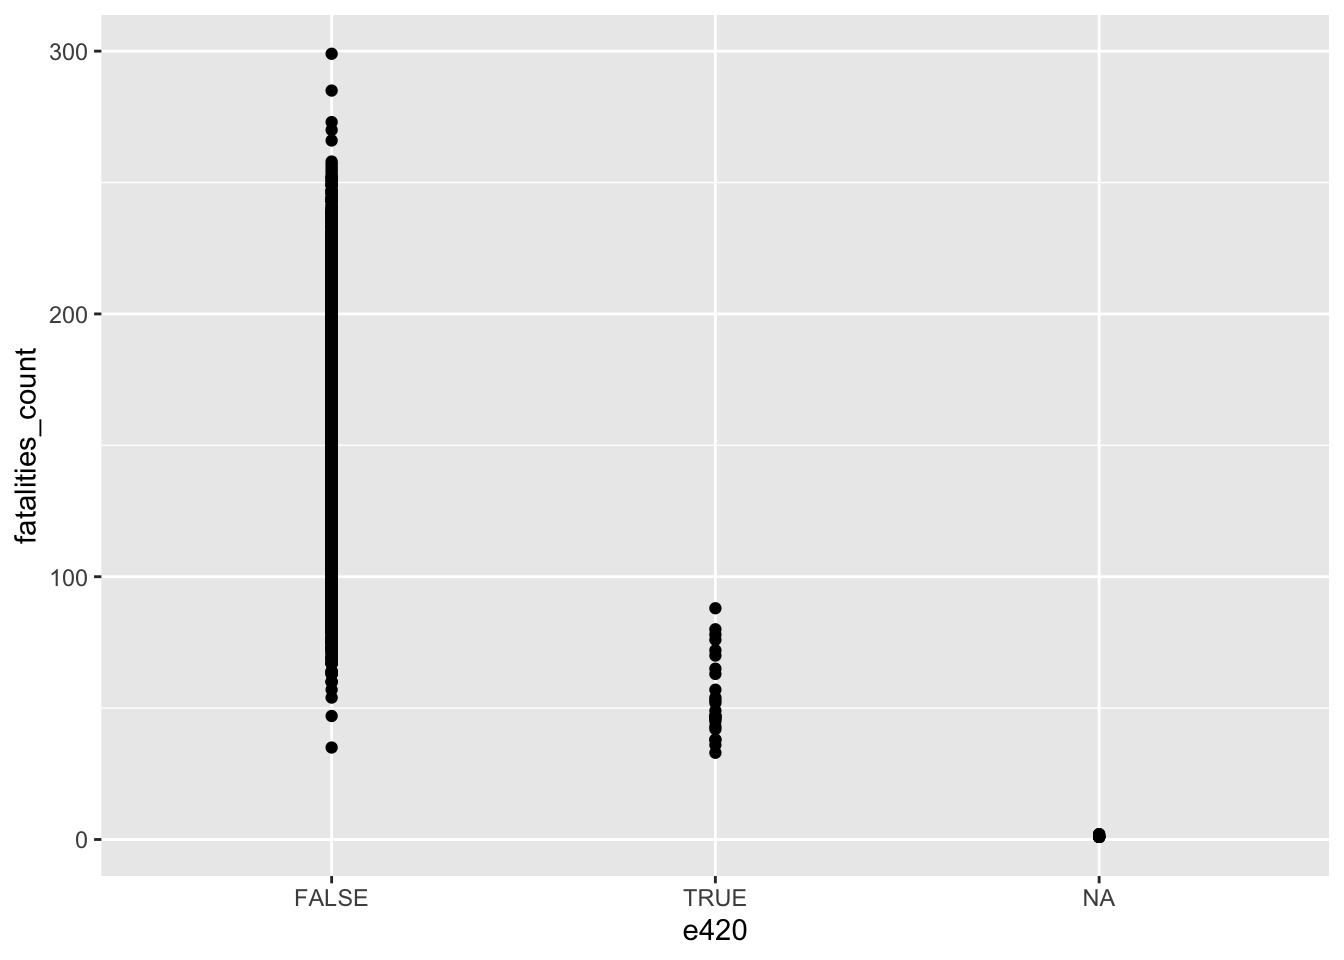
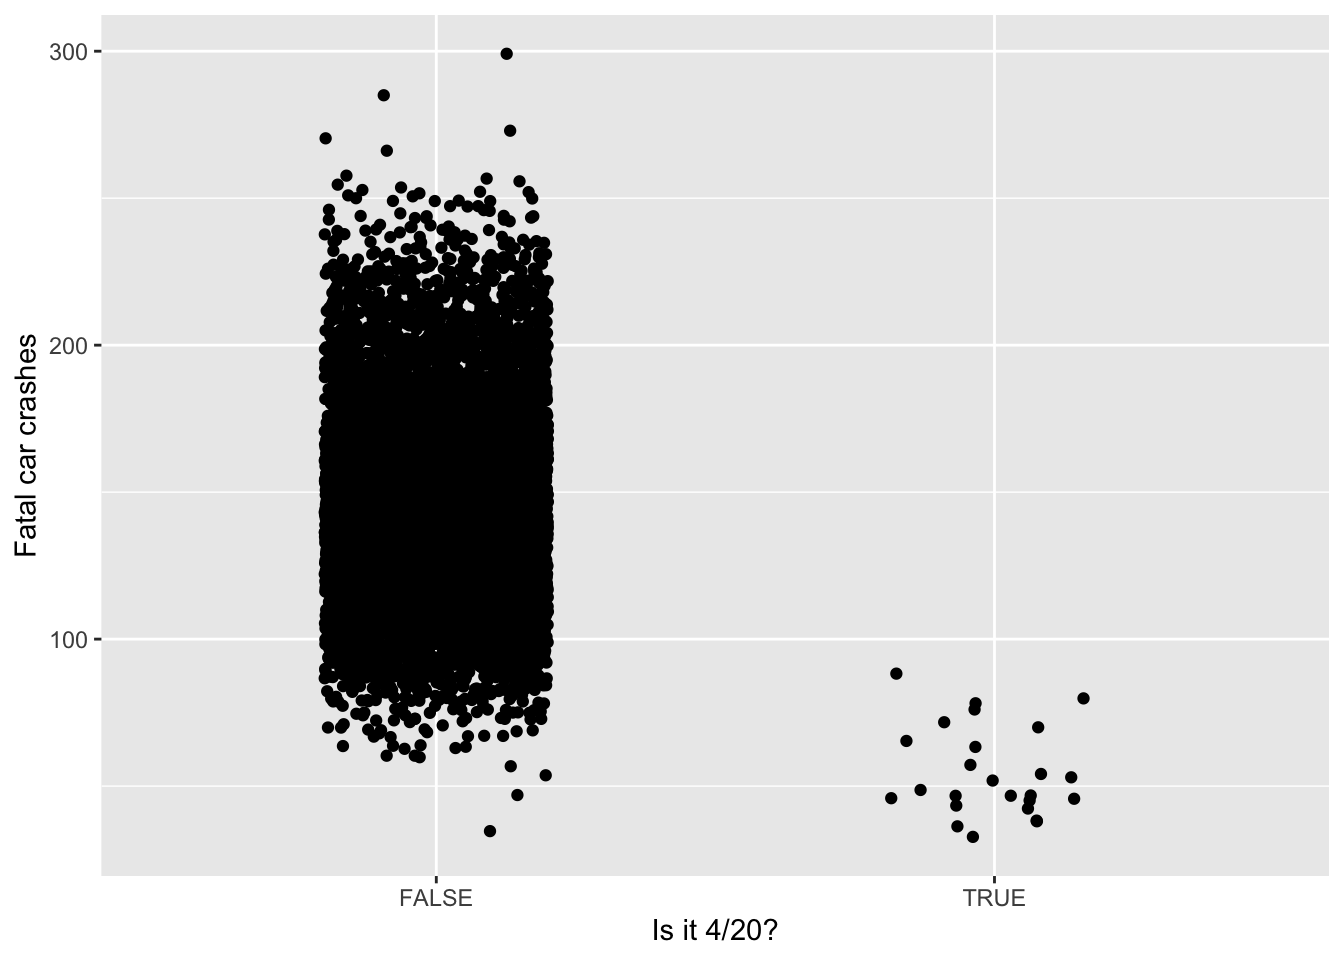
Tweaked aesthetics

diff --git a/docs/p05.html b/docs/p05.html
@@ -240,7 +240,7 @@ $(document).ready(function () {
         <span class="icon-bar"></span>
         <span class="icon-bar"></span>
       </button>
-      <a class="navbar-brand" href="index.html">Portfolio</a>
+      <a class="navbar-brand" href="index.html">Benjamin Egan's Projects</a>
     </div>
     <div id="navbar" class="navbar-collapse collapse">
       <ul class="nav navbar-nav">
@@ -248,7 +248,7 @@ $(document).ready(function () {
   <a href="index.html">Home</a>
 </li>
 <li>
-  <a href="about.html">About</a>
+  <a href="about.html">About Me</a>
 </li>
 <li>
   <a href="p01.html">Piece 1</a>
@@ -335,9 +335,9 @@ in the United States? <br/></li>
 </div>
 <div
 id="correlation-between-fatal-car-crashes-and-particular-days-of-the-year"
-class="section level3">
-<h3>1. Correlation between fatal car crashes and particular days of the
-year</h3>
+class="section level2">
+<h2>1. Correlation between fatal car crashes and particular days of the
+year</h2>
 <p>To see if there is a correlation, I’ll use the daily_accidents
 dataset. My first step is to break out the date into separate day,
 month, and year variables.</p>
@@ -520,9 +520,9 @@ decline. Very cool, and why there was a negative correlation.</p>
 </div>
 <div
 id="what-are-the-most-dangerous-days-of-the-year-for-fatal-car-crashes-in-the-united-states"
-class="section level3">
-<h3>2. What are the most dangerous days of the year for fatal car
-crashes in the United States?</h3>
+class="section level2">
+<h2>2. What are the most dangerous days of the year for fatal car
+crashes in the United States?</h2>
 <pre class="r"><code>daily_accidents %&gt;%
   arrange(desc(fatalities)) %&gt;%
 head()</code></pre>
@@ -572,21 +572,297 @@ should stop driving on the 3rd of the month…</p>
 </div>
 <div
 id="is-driving-on-april-20th-more-dangerous-than-other-days-of-the-year"
-class="section level3">
-<h3>3. Is driving on April 20th more dangerous than other days of the
-year?</h3>
+class="section level2">
+<h2>3. Is driving on April 20th more dangerous than other days of the
+year?</h2>
 <p>To answer this question, I’ll use the daily_accidents_420 dataset,
 which conveniently created an indicator of 4/20.</p>
-<pre class="r"><code>#daily_accidents_420test &lt;- daily_accidents_420 %&gt;%
-  #filter(!(e420 = &quot;NA&quot;))
+<pre class="r"><code>daily_accidents_420 &lt;- daily_accidents_420 %&gt;%
+  filter(!e420 == &quot;NA&quot;)
 
 daily_accidents_420 %&gt;%
   ggplot(aes(
     x = e420,
     y = fatalities_count
   ))+
-  geom_point()</code></pre>
-<p><img src="p05_files/figure-html/420%20fatalities-1.png" width="672" /></p>
+  geom_jitter(width = .2)+
+  labs(
+    x = &quot;Is it 4/20?&quot;,
+    y = &quot;Fatal car crashes&quot;
+  )</code></pre>
+<p><img src="p05_files/figure-html/420%20fatalities-1.png" width="672" />
+Based on the simple visual, it looks like there are actually less fatal
+car crashes on 4/20. To confirm this, I’m going to run an t-test to see
+if the groups are different.</p>
+<pre class="r"><code>t.test(fatalities_count ~ e420, data = daily_accidents_420)</code></pre>
+<pre><code>## 
+##  Welch Two Sample t-test
+## 
+## data:  fatalities_count by e420
+## t = 29.369, df = 24.632, p-value &lt; 2.2e-16
+## alternative hypothesis: true difference in means between group FALSE and group TRUE is not equal to 0
+## 95 percent confidence interval:
+##  83.98584 96.66370
+## sample estimates:
+## mean in group FALSE  mean in group TRUE 
+##            144.9248             54.6000</code></pre>
+<p>The p value is extremely significant, indicating that driving on 420
+causes less fatal car crashes.</p>
+</div>
+<div
+id="how-about-other-holidays-such-as-christmas-new-years-eve-or-4th-of-july"
+class="section level2">
+<h2>4. How about other holidays, such as Christmas, New years Eve, or
+4th of July?</h2>
+<p>I’ll start with Christmas, 12/25. I now need to create a Christmas
+Y/N variable.</p>
+<div id="christmas" class="section level3">
+<h3>Christmas</h3>
+<pre class="r"><code>Christmas &lt;- daily_accidents %&gt;%
+  mutate(Christmas = if_else(
+    day == 25 &amp; month == 12, &quot;Christmas&quot;, &quot;Not Christmas&quot;
+  ))
+
+Christmas %&gt;%
+  ggplot(aes(
+    x = Christmas,
+    y = fatalities
+  ))+
+  geom_jitter(width = .2)+
+  labs(
+    x = &quot;Is it Christmas?&quot;,
+    y = &quot;Fatal car crashes&quot;
+  )</code></pre>
+<p><img src="p05_files/figure-html/christmas%20fatalities-1.png" width="672" /></p>
+<p>Ok so here it’s less clear if there is a difference of fatalities for
+Christmas. As before, I’ll do a t-test to confirm this.</p>
+<pre class="r"><code>t.test(fatalities ~ Christmas, data = Christmas)</code></pre>
+<pre><code>## 
+##  Welch Two Sample t-test
+## 
+## data:  fatalities by Christmas
+## t = -6.8592, df = 24.25, p-value = 4.058e-07
+## alternative hypothesis: true difference in means between group Christmas and group Not Christmas is not equal to 0
+## 95 percent confidence interval:
+##  -43.24549 -23.24854
+## sample estimates:
+##     mean in group Christmas mean in group Not Christmas 
+##                     111.920                     145.167</code></pre>
+<p>As before, the p value is very significant, indicating there are less
+car crash fatalities on Christmas.</p>
+</div>
+<div id="new-years" class="section level3">
+<h3>New Years</h3>
+<p>I’m now going to do this by creating a function. I tried using the
+first chunk of code, and the second chunk I got from chat GPT.</p>
+<pre class="r"><code>day_oty &lt;- function(name, specific_month, specific_day) {
+name &lt;- daily_accidents %&gt;%
+  mutate(name = if_else(
+    day == specific_day &amp; month == specific_month, &quot;Yes&quot;, &quot;No&quot;
+  ))
+}</code></pre>
+<pre class="r"><code>day_oty &lt;- function(name, specific_month, specific_day) {
+  daily_accidents %&gt;%
+    mutate({{name}} := if_else(
+        day == specific_day &amp; month == specific_month, &quot;Yes&quot;, &quot;No&quot;
+      ))
+}</code></pre>
+<p>Great. Now we can see if there is a difference.</p>
+<pre class="r"><code>NYE &lt;- day_oty(NYE, 12, 31)
+
+NYE %&gt;%
+  ggplot(aes(
+    x = NYE,
+    y = fatalities
+  ))+
+  geom_jitter(width = .2)+
+  labs(
+    x = &quot;Is it New years eve?&quot;,
+    y = &quot;Fatal car crashes&quot;
+  )</code></pre>
+<p><img src="p05_files/figure-html/new%20years%20fatalities-1.png" width="672" /></p>
+<pre class="r"><code>t.test(fatalities ~ NYE, data = NYE)</code></pre>
+<pre><code>## 
+##  Welch Two Sample t-test
+## 
+## data:  fatalities by NYE
+## t = 1.2682, df = 24.219, p-value = 0.2168
+## alternative hypothesis: true difference in means between group No and group Yes is not equal to 0
+## 95 percent confidence interval:
+##  -4.119777 17.267764
+## sample estimates:
+##  mean in group No mean in group Yes 
+##           145.094           138.520</code></pre>
+<p>For new years eve, there actually isn’t a difference, indicating that
+New Years Eve might be the same as any normal day.</p>
+</div>
+<div id="th-of-july" class="section level3">
+<h3>4th of July</h3>
+<pre class="r"><code>july4 &lt;- day_oty(july4, 7, 4)
+
+july4 %&gt;%
+  ggplot(aes(
+    x = july4,
+    y = fatalities
+  ))+
+  geom_jitter(width = .2)+
+  labs(
+    x = &quot;Is it July 4th?&quot;,
+    y = &quot;Fatal car crashes&quot;
+  )</code></pre>
+<p><img src="p05_files/figure-html/4th%20of%20july%20fatalities-1.png" width="672" /></p>
+<pre class="r"><code>t.test(fatalities ~ july4, data = july4)</code></pre>
+<pre><code>## 
+##  Welch Two Sample t-test
+## 
+## data:  fatalities by july4
+## t = -6.3811, df = 24.249, p-value = 1.282e-06
+## alternative hypothesis: true difference in means between group No and group Yes is not equal to 0
+## 95 percent confidence interval:
+##  -41.03296 -20.98483
+## sample estimates:
+##  mean in group No mean in group Yes 
+##          144.9911          176.0000</code></pre>
+<p>We have a winner! It looks like there are actually more fatalities on
+July 4th than normal (p &lt;.001). Maybe stick to fireworks in the
+backyard.</p>
+</div>
+</div>
+<div id="bonus---so-what-about-holidays-that-vary-like-thanksgiving"
+class="section level2">
+<h2>Bonus - So what about holidays that vary, like Thanksgiving?</h2>
+<p>As I was trying to fit the function, chatGPT said I could fit the
+function to dynamic holidays like thanksgiving. Thanksgiving falls on
+the 4th thursday of every november. This means that november will be the
+same, but the day will change every year.</p>
+<pre class="r"><code>daily_accidents &lt;- daily_accidents %&gt;%
+    mutate(date = make_date(year, month, day))
+
+check_thanksgiving &lt;- function(df) {
+  
+  thanksgiving_flags &lt;- df %&gt;%
+    filter(month(date) == 11) %&gt;%
+    arrange(date) %&gt;%
+    group_by(year(date)) %&gt;%
+    mutate(
+      weekday = wday(date, label = TRUE),
+      thursday_count = cumsum(weekday == &quot;Thu&quot;),
+      is_thanksgiving = if_else(weekday == &quot;Thu&quot; &amp; thursday_count == 4, &quot;Yes&quot;, &quot;No&quot;)
+    ) %&gt;%
+    ungroup() %&gt;%
+    select(date, is_thanksgiving)
+
+  # Merge flags back into the main data
+  df %&gt;%
+    left_join(thanksgiving_flags, by = &quot;date&quot;) %&gt;%
+    mutate(is_thanksgiving = replace_na(is_thanksgiving, &quot;No&quot;))
+  
+}
+
+
+thanksgiving_accidents &lt;- check_thanksgiving(daily_accidents)
+
+head(thanksgiving_accidents)</code></pre>
+<pre><code>##         date year month day fatalities is_thanksgiving
+## 1 1992-01-01 1992     1   1        144              No
+## 2 1992-01-02 1992     1   2        111              No
+## 3 1992-01-07 1992     1   7         85              No
+## 4 1992-01-12 1992     1  12        127              No
+## 5 1992-01-03 1992     1   3        182              No
+## 6 1992-01-17 1992     1  17        130              No</code></pre>
+<p>What this has done is that it filtered the data to just be November
+months and days, and arranged based on the year. From there, it created
+a weekday variable and a variable that counted the number of Thursdays
+in the month. It then created a final “is thanksgiving” variable that
+was based on it being the 4th Thursday. It took this variable and merged
+it with the original daily_accidents dataset.</p>
+<pre class="r"><code>thanksgiving_accidents %&gt;%
+  ggplot(aes(
+    x = is_thanksgiving,
+    y = fatalities
+  ))+
+  geom_jitter(width = .2)+
+  labs(
+    x = &quot;Is it Thanksgiving?&quot;,
+    y = &quot;Fatal car crashes&quot;
+  )</code></pre>
+<p><img src="p05_files/figure-html/thanksgiving%20difference-1.png" width="672" /></p>
+<pre class="r"><code>t.test(fatalities ~ is_thanksgiving, data = thanksgiving_accidents)</code></pre>
+<pre><code>## 
+##  Welch Two Sample t-test
+## 
+## data:  fatalities by is_thanksgiving
+## t = 0.94434, df = 24.223, p-value = 0.3543
+## alternative hypothesis: true difference in means between group No and group Yes is not equal to 0
+## 95 percent confidence interval:
+##  -5.743886 15.442430
+## sample estimates:
+##  mean in group No mean in group Yes 
+##          145.0893          140.2400</code></pre>
+<p>Like NYE, there actually isn’t a difference, indicating that
+Thanksgiving might be the same as any normal day.</p>
+<div id="other-days" class="section level4">
+<h4>Other days</h4>
+<p>This could theoretically be done with any changing date based on the
+calendar. I can change it to be black Friday, which is the 4th Friday of
+every November</p>
+<pre class="r"><code>check_black_friday &lt;- function(df) {
+  
+  black_friday &lt;- df %&gt;%
+    filter(month(date) == 11) %&gt;%
+    arrange(date) %&gt;%
+    group_by(year(date)) %&gt;%
+    mutate(
+      weekday = wday(date, label = TRUE),
+      friday_count = cumsum(weekday == &quot;Fri&quot;),
+      is_black_friday = if_else(weekday == &quot;Fri&quot; &amp; friday_count == 4, &quot;Yes&quot;, &quot;No&quot;)
+    ) %&gt;%
+    ungroup() %&gt;%
+    select(date, is_black_friday)
+
+  df %&gt;%
+    left_join(black_friday, by = &quot;date&quot;) %&gt;%
+    mutate(is_black_friday = replace_na(is_black_friday, &quot;No&quot;))
+  
+}
+
+
+black_friday_accidents &lt;- check_black_friday(daily_accidents)
+
+head(black_friday_accidents)</code></pre>
+<pre><code>##         date year month day fatalities is_black_friday
+## 1 1992-01-01 1992     1   1        144              No
+## 2 1992-01-02 1992     1   2        111              No
+## 3 1992-01-07 1992     1   7         85              No
+## 4 1992-01-12 1992     1  12        127              No
+## 5 1992-01-03 1992     1   3        182              No
+## 6 1992-01-17 1992     1  17        130              No</code></pre>
+<pre class="r"><code>black_friday_accidents %&gt;%
+  ggplot(aes(
+    x = is_black_friday,
+    y = fatalities
+  ))+
+  geom_jitter(width = .2)+
+  labs(
+    x = &quot;Is it black friday?&quot;,
+    y = &quot;Fatal car crashes&quot;
+  )</code></pre>
+<p><img src="p05_files/figure-html/black%20friday%20difference-1.png" width="672" /></p>
+<pre class="r"><code>t.test(fatalities ~ is_black_friday, data = black_friday_accidents)</code></pre>
+<pre><code>## 
+##  Welch Two Sample t-test
+## 
+## data:  fatalities by is_black_friday
+## t = -1.2, df = 24.203, p-value = 0.2418
+## alternative hypothesis: true difference in means between group No and group Yes is not equal to 0
+## 95 percent confidence interval:
+##  -17.570310   4.646924
+## sample estimates:
+##  mean in group No mean in group Yes 
+##          145.0583          151.5200</code></pre>
+<p>Cool. This is pretty similar to Thanksgiving, where there is no
+difference.</p>
+</div>
 </div>
 </div>
 

diff --git a/README.md b/README.md
@@ -1,1 +1,1 @@
-# Under Construction
+# A snapshot of projects
